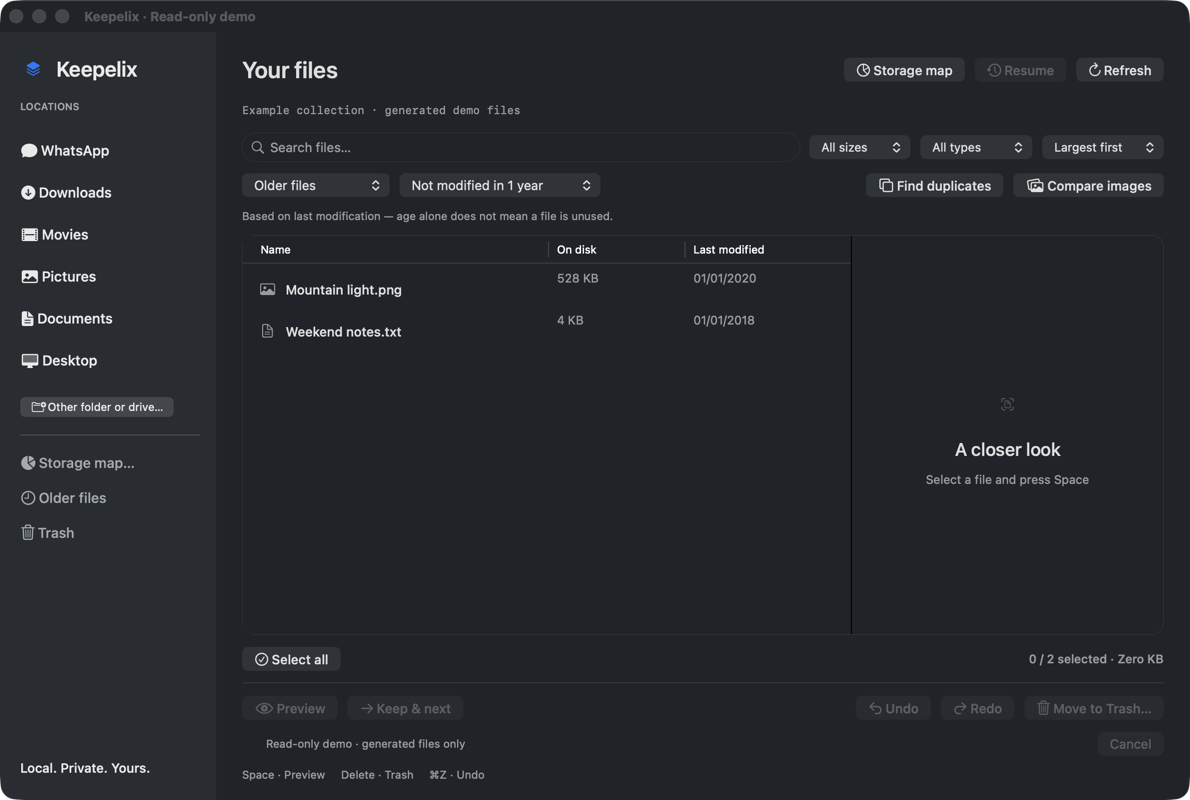
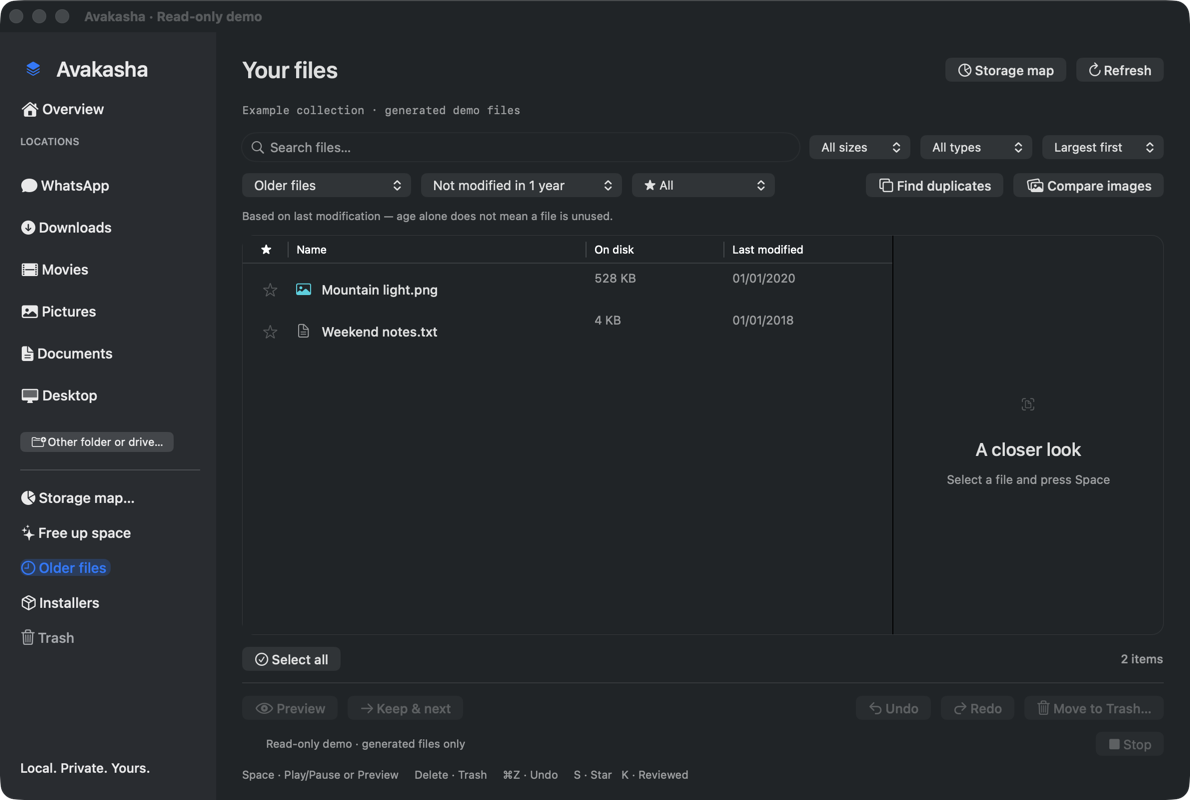
Demo: pin the window size, hide temporary paths, show files by default; refresh the Older files screenshot

diff --git a/Sources/Avakasha/StorageMapPanel.swift b/Sources/Avakasha/StorageMapPanel.swift
@@ -77,6 +77,8 @@ final class StorageMapPanel: NSView, NSTableViewDataSource, NSTableViewDelegate 
     var onReview: ((URL) -> Void)?
     var onSelectionChange: (() -> Void)?
     var onReveal: ((URL) -> Void)?
+    /// The read-only demo hides absolute paths, which would only show a temporary folder.
+    var showsPaths = true
     /// Names loaded on request from WhatsApp's chat list; empty until the user asks.
     var chatNames: [String: ChatInfo] = [:] { didSet { table.reloadData() } }
 
@@ -103,7 +105,7 @@ final class StorageMapPanel: NSView, NSTableViewDataSource, NSTableViewDelegate 
         trashButton.toolTip = L("Measures the folder again, shows what it holds and asks before moving the whole folder to Trash. Not for bundles, hidden folders or folders with unmeasured items.", "מודד את התיקייה מחדש, מציג מה יש בה ומבקש אישור לפני העברת התיקייה כולה לפח. לא לחבילות, לתיקיות מוסתרות או לתיקיות עם פריטים שלא נמדדו.")
         let toolbar = NSStackView(views: [crumbs, spacer, rescanButton, openButton, reviewButton, largestButton, trashButton]); toolbar.spacing = 8; toolbar.alignment = .centerY
         table.onTrash = { [weak self] in self?.trashTapped() }
-        crumbs.setContentCompressionResistancePriority(.defaultLow, for: .horizontal)
+        crumbs.setContentCompressionResistancePriority(.defaultLow, for: .horizontal); crumbs.widthAnchor.constraint(greaterThanOrEqualToConstant: 150).isActive = true
         table.rowHeight = 30; table.intercellSpacing = NSSize(width: 12, height: 4); table.usesAlternatingRowBackgroundColors = false; table.style = .inset
         table.columnAutoresizingStyle = .uniformColumnAutoresizingStyle; table.allowsMultipleSelection = false
         table.setAccessibilityLabel(L("Storage map", "מפת אחסון"))
@@ -267,7 +269,7 @@ final class StorageMapPanel: NSView, NSTableViewDataSource, NSTableViewDelegate 
         let root = result?.root
         detailSize.stringValue = bytes(row?.bytes ?? current.bytes)
         detailTitle.stringValue = row?.node == nil && row != nil ? L("Files directly in ", "קבצים ישירות בתוך ") + current.name : node.name
-        detailPath.stringValue = (node.url.path as NSString).abbreviatingWithTildeInPath; detailPath.toolTip = node.url.path; detailPath.isHidden = false
+        detailPath.stringValue = (node.url.path as NSString).abbreviatingWithTildeInPath; detailPath.toolTip = node.url.path; detailPath.isHidden = !showsPaths
         var facts: [String] = []
         if row?.node == nil, row != nil { facts.append("\(current.directFiles) " + L("files", "קבצים")) }
         else if !node.isUnreadable { facts.append("\(node.files) " + L("files", "קבצים") + " · \(node.directories) " + L("folders", "תיקיות")) }

diff --git a/Sources/Avakasha/main.swift b/Sources/Avakasha/main.swift
@@ -374,6 +374,11 @@ final class AppController: NSObject, NSApplicationDelegate, NSTableViewDataSourc
             let featured = ProcessInfo.processInfo.arguments.contains("--demo-video") ? "Harbour clip.mov" : "Coastal morning.png"
             if let row=shown.firstIndex(where:{$0.name == featured}) {table.selectRowIndexes(IndexSet(integer:row),byExtendingSelection:false);previewOpen=true;updatePreview()}
             if ProcessInfo.processInfo.arguments.contains("--demo-overview") { setOverview(true) }
+            if ProcessInfo.processInfo.arguments.contains("--demo-older") { showOlderFiles() }
+            mapPanel.showsPaths=false;pathLabel.isHidden=true
+            if overviewMode && !ProcessInfo.processInfo.arguments.contains("--demo-overview") { setOverview(false) } // the demo shows files unless asked for the overview
+            window.minSize=NSSize(width:1190,height:768);window.setContentSize(NSSize(width:1190,height:768));window.center() // pin the demo window size
+            }
             if ProcessInfo.processInfo.arguments.contains("--demo-map") {
                 mapPanel.load(try StorageMapper.map(root:folder,token:CancellationToken()));mapRoot=folder;setMapMode(true)
                 folderLabel.stringValue=L("Example collection · generated demo files","אוסף לדוגמה · קבצים מלאכותיים")

diff --git a/scripts/audit-source.py b/scripts/audit-source.py
@@ -9,7 +9,7 @@ root = pathlib.Path(__file__).resolve().parents[1]
 # Every reviewed synthetic version of each image, so historical blobs stay verifiable.
 artwork = {
[6 lines of base64/hex data omitted]
